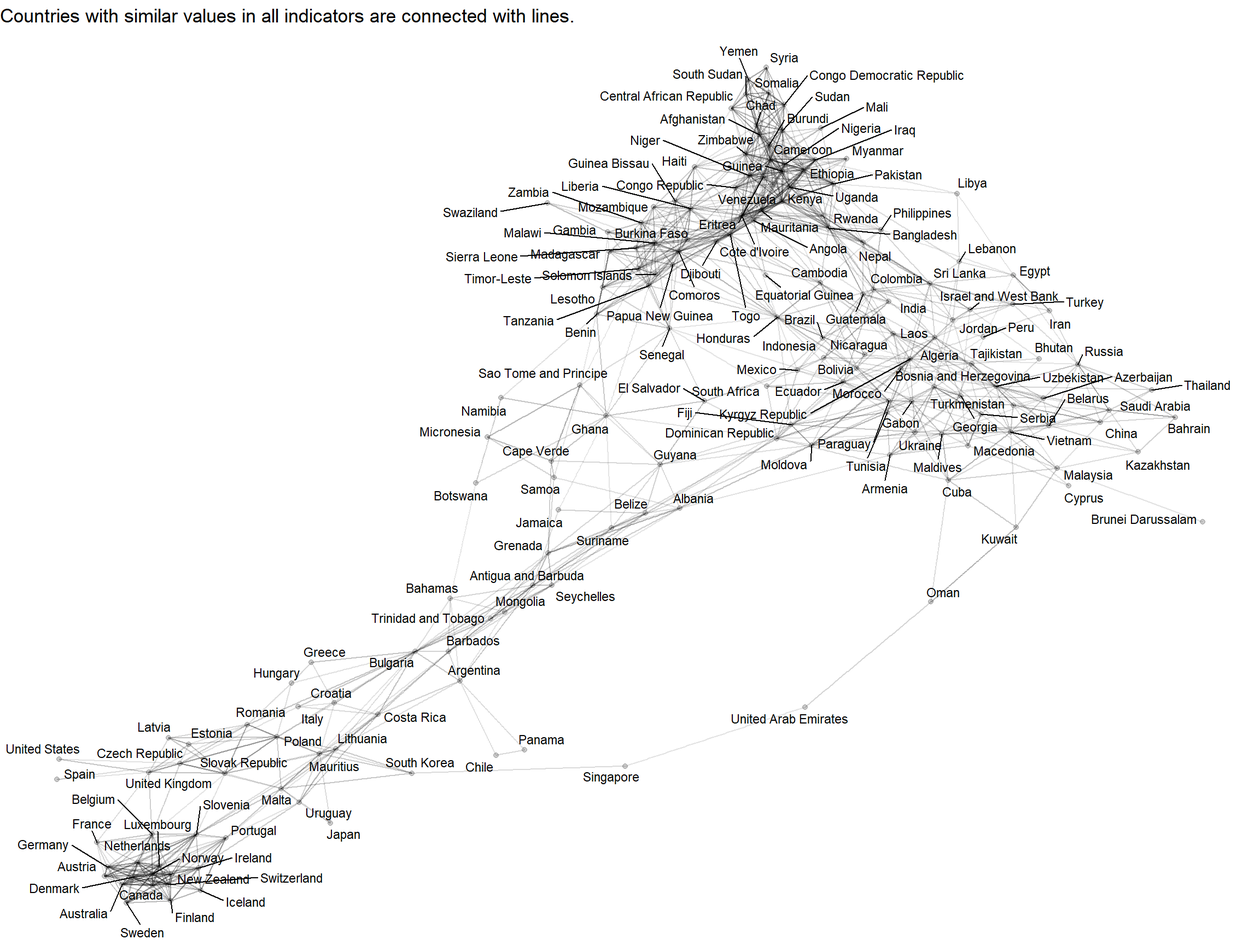
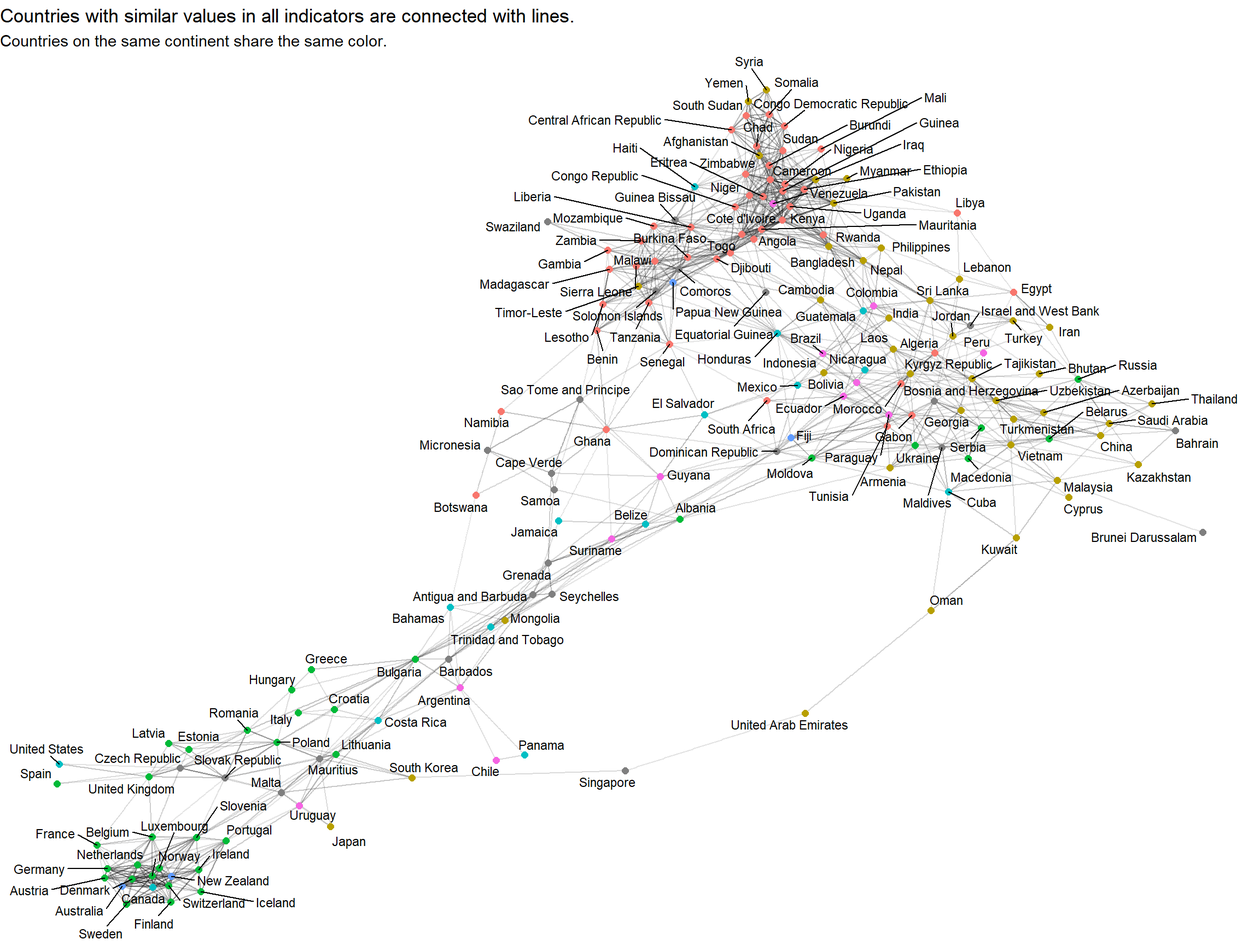
added continent networks to the fragile state index

diff --git a/_posts/2021-03-03-the-fragile-state-index/the-fragile-state-index.html b/_posts/2021-03-03-the-fragile-state-index/the-fragile-state-index.html
@@ -88,7 +88,7 @@ code span.wa { color: #545454; font-weight: bold; font-style: italic; } /* Warni
   <!--radix_placeholder_meta_tags-->
   <title>The Fragile State Index</title>
   
-  <meta property="description" itemprop="description" content="The Fragile State Index is a project dedicated to measure risk and vulnerability in countries worldwide, assigning values to 12 indicators like economic inequality, demographic pressures and brain drain (the tendendy of intellectuals and politicians to leave the country). The project is powered by The Fund For Peace and the data is publicly available."/>
+  <meta property="description" itemprop="description" content="One of the most interesting datasets I looked at recently is The Fragile State Index. It is a project dedicated to measure risk and vulnerability in countries worldwide, assigning values to 12 indicators like economic inequality, demographic pressures and brain drain (the tendendy of intellectuals and politicians to leave the country). The project is powered by The Fund For Peace and the data is publicly available."/>
   
   
   <!--  https://schema.org/Article -->
@@ -99,24 +99,24 @@ code span.wa { color: #545454; font-weight: bold; font-style: italic; } /* Warni
   <!--  https://developers.facebook.com/docs/sharing/webmasters#markup -->
   <meta property="og:title" content="The Fragile State Index"/>
   <meta property="og:type" content="article"/>
-  <meta property="og:description" content="The Fragile State Index is a project dedicated to measure risk and vulnerability in countries worldwide, assigning values to 12 indicators like economic inequality, demographic pressures and brain drain (the tendendy of intellectuals and politicians to leave the country). The project is powered by The Fund For Peace and the data is publicly available."/>
+  <meta property="og:description" content="One of the most interesting datasets I looked at recently is The Fragile State Index. It is a project dedicated to measure risk and vulnerability in countries worldwide, assigning values to 12 indicators like economic inequality, demographic pressures and brain drain (the tendendy of intellectuals and politicians to leave the country). The project is powered by The Fund For Peace and the data is publicly available."/>
   <meta property="og:locale" content="en_US"/>
   
   <!--  https://dev.twitter.com/cards/types/summary -->
   <meta property="twitter:card" content="summary"/>
   <meta property="twitter:title" content="The Fragile State Index"/>
-  <meta property="twitter:description" content="The Fragile State Index is a project dedicated to measure risk and vulnerability in countries worldwide, assigning values to 12 indicators like economic inequality, demographic pressures and brain drain (the tendendy of intellectuals and politicians to leave the country). The project is powered by The Fund For Peace and the data is publicly available."/>
+  <meta property="twitter:description" content="One of the most interesting datasets I looked at recently is The Fragile State Index. It is a project dedicated to measure risk and vulnerability in countries worldwide, assigning values to 12 indicators like economic inequality, demographic pressures and brain drain (the tendendy of intellectuals and politicians to leave the country). The project is powered by The Fund For Peace and the data is publicly available."/>
   
   <!--/radix_placeholder_meta_tags-->
   <!--radix_placeholder_rmarkdown_metadata-->
   
   <script type="text/json" id="radix-rmarkdown-metadata">
-  {"type":"list","attributes":{"names":{"type":"character","attributes":{},"value":["title","description","author","date","output"]}},"value":[{"type":"character","attributes":{},"value":["The Fragile State Index"]},{"type":"character","attributes":{},"value":["The Fragile State Index is a project dedicated to measure risk and vulnerability in countries worldwide, assigning values to 12 indicators like economic inequality, demographic pressures and brain drain (the tendendy of intellectuals and politicians to leave the country). The project is powered by The Fund For Peace and the data is publicly available.\n"]},{"type":"list","attributes":{},"value":[{"type":"list","attributes":{"names":{"type":"character","attributes":{},"value":["name","url"]}},"value":[{"type":"character","attributes":{},"value":["Richard Vogg"]},{"type":"character","attributes":{},"value":["https://github.com/richardvogg"]}]}]},{"type":"character","attributes":{},"value":["03-03-2021"]},{"type":"list","attributes":{"names":{"type":"character","attributes":{},"value":["distill::distill_article"]}},"value":[{"type":"list","attributes":{"names":{"type":"character","attributes":{},"value":["self_contained"]}},"value":[{"type":"logical","attributes":{},"value":[false]}]}]}]}
+  {"type":"list","attributes":{"names":{"type":"character","attributes":{},"value":["title","description","author","date","output"]}},"value":[{"type":"character","attributes":{},"value":["The Fragile State Index"]},{"type":"character","attributes":{},"value":["One of the most interesting datasets I looked at recently is The Fragile State Index. It is a project dedicated to measure risk and vulnerability in countries worldwide, assigning values to 12 indicators like economic inequality, demographic pressures and brain drain (the tendendy of intellectuals and politicians to leave the country). The project is powered by The Fund For Peace and the data is publicly available.\n"]},{"type":"list","attributes":{},"value":[{"type":"list","attributes":{"names":{"type":"character","attributes":{},"value":["name","url"]}},"value":[{"type":"character","attributes":{},"value":["Richard Vogg"]},{"type":"character","attributes":{},"value":["https://github.com/richardvogg"]}]}]},{"type":"character","attributes":{},"value":["03-03-2021"]},{"type":"list","attributes":{"names":{"type":"character","attributes":{},"value":["distill::distill_article"]}},"value":[{"type":"list","attributes":{"names":{"type":"character","attributes":{},"value":["self_contained"]}},"value":[{"type":"logical","attributes":{},"value":[false]}]}]}]}
   </script>
   <!--/radix_placeholder_rmarkdown_metadata-->
   
   <script type="text/json" id="radix-resource-manifest">
-  {"type":"character","attributes":{},"value":["data/fsi-2006.xlsx","data/fsi-2007.xlsx","data/fsi-2008.xlsx","data/fsi-2009.xlsx","data/fsi-2010.xlsx","data/fsi-2011.xlsx","data/fsi-2012.xlsx","data/fsi-2013.xlsx","data/fsi-2014.xlsx","data/fsi-2015.xlsx","data/fsi-2016.xlsx","data/fsi-2017.xlsx","data/fsi-2018.xlsx","data/fsi-2019.xlsx","data/fsi-2020.xlsx","the-fragile-state-index_files/anchor-4.2.2/anchor.min.js","the-fragile-state-index_files/bowser-1.9.3/bowser.min.js","the-fragile-state-index_files/distill-2.2.21/template.v2.js","the-fragile-state-index_files/figure-html5/unnamed-chunk-1-1.png","the-fragile-state-index_files/figure-html5/unnamed-chunk-10-1.png","the-fragile-state-index_files/figure-html5/unnamed-chunk-3-1.png","the-fragile-state-index_files/figure-html5/unnamed-chunk-5-1.png","the-fragile-state-index_files/figure-html5/unnamed-chunk-6-1.png","the-fragile-state-index_files/figure-html5/unnamed-chunk-7-1.png","the-fragile-state-index_files/figure-html5/unnamed-chunk-8-1.png","the-fragile-state-index_files/figure-html5/unnamed-chunk-9-1.png","the-fragile-state-index_files/jquery-1.11.3/jquery.min.js","the-fragile-state-index_files/twitter-widget-0.0.1/widgets.js","the-fragile-state-index_files/webcomponents-2.0.0/webcomponents.js"]}
+  {"type":"character","attributes":{},"value":["data/fsi-2006.xlsx","data/fsi-2007.xlsx","data/fsi-2008.xlsx","data/fsi-2009.xlsx","data/fsi-2010.xlsx","data/fsi-2011.xlsx","data/fsi-2012.xlsx","data/fsi-2013.xlsx","data/fsi-2014.xlsx","data/fsi-2015.xlsx","data/fsi-2016.xlsx","data/fsi-2017.xlsx","data/fsi-2018.xlsx","data/fsi-2019.xlsx","data/fsi-2020.xlsx","the-fragile-state-index_files/anchor-4.2.2/anchor.min.js","the-fragile-state-index_files/bowser-1.9.3/bowser.min.js","the-fragile-state-index_files/distill-2.2.21/template.v2.js","the-fragile-state-index_files/figure-html5/unnamed-chunk-1-1.png","the-fragile-state-index_files/figure-html5/unnamed-chunk-10-1.png","the-fragile-state-index_files/figure-html5/unnamed-chunk-11-1.png","the-fragile-state-index_files/figure-html5/unnamed-chunk-13-1.png","the-fragile-state-index_files/figure-html5/unnamed-chunk-14-1.png","the-fragile-state-index_files/figure-html5/unnamed-chunk-15-1.png","the-fragile-state-index_files/figure-html5/unnamed-chunk-17-1.png","the-fragile-state-index_files/figure-html5/unnamed-chunk-19-1.png","the-fragile-state-index_files/figure-html5/unnamed-chunk-20-1.png","the-fragile-state-index_files/figure-html5/unnamed-chunk-3-1.png","the-fragile-state-index_files/figure-html5/unnamed-chunk-5-1.png","the-fragile-state-index_files/figure-html5/unnamed-chunk-6-1.png","the-fragile-state-index_files/figure-html5/unnamed-chunk-7-1.png","the-fragile-state-index_files/figure-html5/unnamed-chunk-8-1.png","the-fragile-state-index_files/figure-html5/unnamed-chunk-9-1.png","the-fragile-state-index_files/jquery-1.11.3/jquery.min.js","the-fragile-state-index_files/twitter-widget-0.0.1/widgets.js","the-fragile-state-index_files/webcomponents-2.0.0/webcomponents.js"]}
   </script>
   <!--radix_placeholder_navigation_in_header-->
   <!--/radix_placeholder_navigation_in_header-->
@@ -1420,7 +1420,7 @@ code span.wa { color: #545454; font-weight: bold; font-style: italic; } /* Warni
 <!--radix_placeholder_front_matter-->
 
 <script id="distill-front-matter" type="text/json">
-{"title":"The Fragile State Index","description":"The Fragile State Index is a project dedicated to measure risk and vulnerability in countries worldwide, assigning values to 12 indicators like economic inequality, demographic pressures and brain drain (the tendendy of intellectuals and politicians to leave the country). The project is powered by The Fund For Peace and the data is publicly available.","authors":[{"author":"Richard Vogg","authorURL":"https://github.com/richardvogg","affiliation":"&nbsp;","affiliationURL":"#","orcidID":""}],"publishedDate":"2021-03-03T00:00:00.000+01:00","citationText":"Vogg, 2021"}
+{"title":"The Fragile State Index","description":"One of the most interesting datasets I looked at recently is The Fragile State Index. It is a project dedicated to measure risk and vulnerability in countries worldwide, assigning values to 12 indicators like economic inequality, demographic pressures and brain drain (the tendendy of intellectuals and politicians to leave the country). The project is powered by The Fund For Peace and the data is publicly available.","authors":[{"author":"Richard Vogg","authorURL":"https://github.com/richardvogg","affiliation":"&nbsp;","affiliationURL":"#","orcidID":""}],"publishedDate":"2021-03-03T00:00:00.000+01:00","citationText":"Vogg, 2021"}
 </script>
 
 <!--/radix_placeholder_front_matter-->
@@ -1433,7 +1433,7 @@ code span.wa { color: #545454; font-weight: bold; font-style: italic; } /* Warni
 <h1>The Fragile State Index</h1>
 <!--radix_placeholder_categories-->
 <!--/radix_placeholder_categories-->
-<p><p>The Fragile State Index is a project dedicated to measure risk and vulnerability in countries worldwide, assigning values to 12 indicators like economic inequality, demographic pressures and brain drain (the tendendy of intellectuals and politicians to leave the country). The project is powered by The Fund For Peace and the data is publicly available.</p></p>
+<p><p>One of the most interesting datasets I looked at recently is The Fragile State Index. It is a project dedicated to measure risk and vulnerability in countries worldwide, assigning values to 12 indicators like economic inequality, demographic pressures and brain drain (the tendendy of intellectuals and politicians to leave the country). The project is powered by The Fund For Peace and the data is publicly available.</p></p>
 </div>
 
 <div class="d-byline">
@@ -1516,9 +1516,40 @@ code span.wa { color: #545454; font-weight: bold; font-style: italic; } /* Warni
 <div class="layout-chunk" data-layout="l-body">
 <p><img src="the-fragile-state-index_files/figure-html5/unnamed-chunk-9-1.png" width="1152" /></p>
 </div>
+<p>To get a better view, we can look at some continents separately.</p>
+<div class="layout-chunk" data-layout="l-body">
+
+</div>
+<div class="layout-chunk" data-layout="l-body">
+<p><img src="the-fragile-state-index_files/figure-html5/unnamed-chunk-11-1.png" width="624" /></p>
+</div>
+<div class="layout-chunk" data-layout="l-body">
+
+</div>
+<div class="layout-chunk" data-layout="l-body">
+<p><img src="the-fragile-state-index_files/figure-html5/unnamed-chunk-13-1.png" width="624" /></p>
+</div>
+<div class="layout-chunk" data-layout="l-body">
+
+</div>
+<div class="layout-chunk" data-layout="l-body">
+<p><img src="the-fragile-state-index_files/figure-html5/unnamed-chunk-15-1.png" width="624" /></p>
+</div>
+<div class="layout-chunk" data-layout="l-body">
+
+</div>
+<div class="layout-chunk" data-layout="l-body">
+<p><img src="the-fragile-state-index_files/figure-html5/unnamed-chunk-17-1.png" width="624" /></p>
+</div>
+<div class="layout-chunk" data-layout="l-body">
+
+</div>
+<div class="layout-chunk" data-layout="l-body">
+<p><img src="the-fragile-state-index_files/figure-html5/unnamed-chunk-19-1.png" width="624" /></p>
+</div>
 <p>Similar to the first country comparison plot, we can see how the indicators evolve over time for different countries. Long-term trends and jumps in the indicators are worth a google search. In the interactive version you can also check other countries of your interest.</p>
 <div class="layout-chunk" data-layout="l-body">
-<p><img src="the-fragile-state-index_files/figure-html5/unnamed-chunk-10-1.png" width="864" /></p>
+<p><img src="the-fragile-state-index_files/figure-html5/unnamed-chunk-20-1.png" width="864" /></p>
 </div>
 <h2 id="final-notes">Final notes</h2>
 <ul>

diff --git a/_site/posts/2021-03-03-the-fragile-state-index/index.html b/_site/posts/2021-03-03-the-fragile-state-index/index.html
@@ -88,7 +88,7 @@ code span.wa { color: #545454; font-weight: bold; font-style: italic; } /* Warni
   <!--radix_placeholder_meta_tags-->
 <title>R-Vogg-Blog: The Fragile State Index</title>
 
-<meta property="description" itemprop="description" content="The Fragile State Index is a project dedicated to measure risk and vulnerability in countries worldwide, assigning values to 12 indicators like economic inequality, demographic pressures and brain drain (the tendendy of intellectuals and politicians to leave the country). The project is powered by The Fund For Peace and the data is publicly available."/>
+<meta property="description" itemprop="description" content="One of the most interesting datasets I looked at recently is The Fragile State Index. It is a project dedicated to measure risk and vulnerability in countries worldwide, assigning values to 12 indicators like economic inequality, demographic pressures and brain drain (the tendendy of intellectuals and politicians to leave the country). The project is powered by The Fund For Peace and the data is publicly available."/>
 
 
 <!--  https://schema.org/Article -->
@@ -99,25 +99,25 @@ code span.wa { color: #545454; font-weight: bold; font-style: italic; } /* Warni
 <!--  https://developers.facebook.com/docs/sharing/webmasters#markup -->
 <meta property="og:title" content="R-Vogg-Blog: The Fragile State Index"/>
 <meta property="og:type" content="article"/>
-<meta property="og:description" content="The Fragile State Index is a project dedicated to measure risk and vulnerability in countries worldwide, assigning values to 12 indicators like economic inequality, demographic pressures and brain drain (the tendendy of intellectuals and politicians to leave the country). The project is powered by The Fund For Peace and the data is publicly available."/>
+<meta property="og:description" content="One of the most interesting datasets I looked at recently is The Fragile State Index. It is a project dedicated to measure risk and vulnerability in countries worldwide, assigning values to 12 indicators like economic inequality, demographic pressures and brain drain (the tendendy of intellectuals and politicians to leave the country). The project is powered by The Fund For Peace and the data is publicly available."/>
 <meta property="og:locale" content="en_US"/>
 <meta property="og:site_name" content="R-Vogg-Blog"/>
 
 <!--  https://dev.twitter.com/cards/types/summary -->
 <meta property="twitter:card" content="summary"/>
 <meta property="twitter:title" content="R-Vogg-Blog: The Fragile State Index"/>
-<meta property="twitter:description" content="The Fragile State Index is a project dedicated to measure risk and vulnerability in countries worldwide, assigning values to 12 indicators like economic inequality, demographic pressures and brain drain (the tendendy of intellectuals and politicians to leave the country). The project is powered by The Fund For Peace and the data is publicly available."/>
+<meta property="twitter:description" content="One of the most interesting datasets I looked at recently is The Fragile State Index. It is a project dedicated to measure risk and vulnerability in countries worldwide, assigning values to 12 indicators like economic inequality, demographic pressures and brain drain (the tendendy of intellectuals and politicians to leave the country). The project is powered by The Fund For Peace and the data is publicly available."/>
 
 <!--/radix_placeholder_meta_tags-->
   <!--radix_placeholder_rmarkdown_metadata-->
 
 <script type="text/json" id="radix-rmarkdown-metadata">
-{"type":"list","attributes":{"names":{"type":"character","attributes":{},"value":["title","description","author","date","output"]}},"value":[{"type":"character","attributes":{},"value":["The Fragile State Index"]},{"type":"character","attributes":{},"value":["The Fragile State Index is a project dedicated to measure risk and vulnerability in countries worldwide, assigning values to 12 indicators like economic inequality, demographic pressures and brain drain (the tendendy of intellectuals and politicians to leave the country). The project is powered by The Fund For Peace and the data is publicly available."]},{"type":"list","attributes":{},"value":[{"type":"list","attributes":{"names":{"type":"character","attributes":{},"value":["name","url"]}},"value":[{"type":"character","attributes":{},"value":["Richard Vogg"]},{"type":"character","attributes":{},"value":["https://github.com/richardvogg"]}]}]},{"type":"character","attributes":{},"value":["03-03-2021"]},{"type":"list","attributes":{"names":{"type":"character","attributes":{},"value":["distill::distill_article"]}},"value":[{"type":"list","attributes":{"names":{"type":"character","attributes":{},"value":["self_contained"]}},"value":[{"type":"logical","attributes":{},"value":[false]}]}]}]}
+{"type":"list","attributes":{"names":{"type":"character","attributes":{},"value":["title","description","author","date","output"]}},"value":[{"type":"character","attributes":{},"value":["The Fragile State Index"]},{"type":"character","attributes":{},"value":["One of the most interesting datasets I looked at recently is The Fragile State Index. It is a project dedicated to measure risk and vulnerability in countries worldwide, assigning values to 12 indicators like economic inequality, demographic pressures and brain drain (the tendendy of intellectuals and politicians to leave the country). The project is powered by The Fund For Peace and the data is publicly available."]},{"type":"list","attributes":{},"value":[{"type":"list","attributes":{"names":{"type":"character","attributes":{},"value":["name","url"]}},"value":[{"type":"character","attributes":{},"value":["Richard Vogg"]},{"type":"character","attributes":{},"value":["https://github.com/richardvogg"]}]}]},{"type":"character","attributes":{},"value":["03-03-2021"]},{"type":"list","attributes":{"names":{"type":"character","attributes":{},"value":["distill::distill_article"]}},"value":[{"type":"list","attributes":{"names":{"type":"character","attributes":{},"value":["self_contained"]}},"value":[{"type":"logical","attributes":{},"value":[false]}]}]}]}
 </script>
 <!--/radix_placeholder_rmarkdown_metadata-->
   
   <script type="text/json" id="radix-resource-manifest">
-  {"type":"character","attributes":{},"value":["data/fsi-2006.xlsx","data/fsi-2007.xlsx","data/fsi-2008.xlsx","data/fsi-2009.xlsx","data/fsi-2010.xlsx","data/fsi-2011.xlsx","data/fsi-2012.xlsx","data/fsi-2013.xlsx","data/fsi-2014.xlsx","data/fsi-2015.xlsx","data/fsi-2016.xlsx","data/fsi-2017.xlsx","data/fsi-2018.xlsx","data/fsi-2019.xlsx","data/fsi-2020.xlsx","the-fragile-state-index_files/anchor-4.2.2/anchor.min.js","the-fragile-state-index_files/bowser-1.9.3/bowser.min.js","the-fragile-state-index_files/distill-2.2.21/template.v2.js","the-fragile-state-index_files/figure-html5/unnamed-chunk-1-1.png","the-fragile-state-index_files/figure-html5/unnamed-chunk-10-1.png","the-fragile-state-index_files/figure-html5/unnamed-chunk-3-1.png","the-fragile-state-index_files/figure-html5/unnamed-chunk-5-1.png","the-fragile-state-index_files/figure-html5/unnamed-chunk-6-1.png","the-fragile-state-index_files/figure-html5/unnamed-chunk-7-1.png","the-fragile-state-index_files/figure-html5/unnamed-chunk-8-1.png","the-fragile-state-index_files/figure-html5/unnamed-chunk-9-1.png","the-fragile-state-index_files/jquery-1.11.3/jquery.min.js","the-fragile-state-index_files/twitter-widget-0.0.1/widgets.js","the-fragile-state-index_files/webcomponents-2.0.0/webcomponents.js"]}
+  {"type":"character","attributes":{},"value":["data/fsi-2006.xlsx","data/fsi-2007.xlsx","data/fsi-2008.xlsx","data/fsi-2009.xlsx","data/fsi-2010.xlsx","data/fsi-2011.xlsx","data/fsi-2012.xlsx","data/fsi-2013.xlsx","data/fsi-2014.xlsx","data/fsi-2015.xlsx","data/fsi-2016.xlsx","data/fsi-2017.xlsx","data/fsi-2018.xlsx","data/fsi-2019.xlsx","data/fsi-2020.xlsx","the-fragile-state-index_files/anchor-4.2.2/anchor.min.js","the-fragile-state-index_files/bowser-1.9.3/bowser.min.js","the-fragile-state-index_files/distill-2.2.21/template.v2.js","the-fragile-state-index_files/figure-html5/unnamed-chunk-1-1.png","the-fragile-state-index_files/figure-html5/unnamed-chunk-10-1.png","the-fragile-state-index_files/figure-html5/unnamed-chunk-11-1.png","the-fragile-state-index_files/figure-html5/unnamed-chunk-13-1.png","the-fragile-state-index_files/figure-html5/unnamed-chunk-14-1.png","the-fragile-state-index_files/figure-html5/unnamed-chunk-15-1.png","the-fragile-state-index_files/figure-html5/unnamed-chunk-17-1.png","the-fragile-state-index_files/figure-html5/unnamed-chunk-19-1.png","the-fragile-state-index_files/figure-html5/unnamed-chunk-20-1.png","the-fragile-state-index_files/figure-html5/unnamed-chunk-3-1.png","the-fragile-state-index_files/figure-html5/unnamed-chunk-5-1.png","the-fragile-state-index_files/figure-html5/unnamed-chunk-6-1.png","the-fragile-state-index_files/figure-html5/unnamed-chunk-7-1.png","the-fragile-state-index_files/figure-html5/unnamed-chunk-8-1.png","the-fragile-state-index_files/figure-html5/unnamed-chunk-9-1.png","the-fragile-state-index_files/jquery-1.11.3/jquery.min.js","the-fragile-state-index_files/twitter-widget-0.0.1/widgets.js","the-fragile-state-index_files/webcomponents-2.0.0/webcomponents.js"]}
   </script>
   <!--radix_placeholder_navigation_in_header-->
 <meta name="distill:offset" content="../.."/>
@@ -2327,7 +2327,7 @@ d-appendix d-footnote-list a.footnote-backlink {
 <!--radix_placeholder_front_matter-->
 
 <script id="distill-front-matter" type="text/json">
-{"title":"The Fragile State Index","description":"The Fragile State Index is a project dedicated to measure risk and vulnerability in countries worldwide, assigning values to 12 indicators like economic inequality, demographic pressures and brain drain (the tendendy of intellectuals and politicians to leave the country). The project is powered by The Fund For Peace and the data is publicly available.","authors":[{"author":"Richard Vogg","authorURL":"https://github.com/richardvogg","affiliation":"&nbsp;","affiliationURL":"#","orcidID":""}],"publishedDate":"2021-03-03T00:00:00.000+01:00","citationText":"Vogg, 2021"}
+{"title":"The Fragile State Index","description":"One of the most interesting datasets I looked at recently is The Fragile State Index. It is a project dedicated to measure risk and vulnerability in countries worldwide, assigning values to 12 indicators like economic inequality, demographic pressures and brain drain (the tendendy of intellectuals and politicians to leave the country). The project is powered by The Fund For Peace and the data is publicly available.","authors":[{"author":"Richard Vogg","authorURL":"https://github.com/richardvogg","affiliation":"&nbsp;","affiliationURL":"#","orcidID":""}],"publishedDate":"2021-03-03T00:00:00.000+01:00","citationText":"Vogg, 2021"}
 </script>
 
 <!--/radix_placeholder_front_matter-->
@@ -2355,7 +2355,7 @@ d-appendix d-footnote-list a.footnote-backlink {
 <h1>The Fragile State Index</h1>
 <!--radix_placeholder_categories-->
 <!--/radix_placeholder_categories-->
-<p><p>The Fragile State Index is a project dedicated to measure risk and vulnerability in countries worldwide, assigning values to 12 indicators like economic inequality, demographic pressures and brain drain (the tendendy of intellectuals and politicians to leave the country). The project is powered by The Fund For Peace and the data is publicly available.</p></p>
+<p><p>One of the most interesting datasets I looked at recently is The Fragile State Index. It is a project dedicated to measure risk and vulnerability in countries worldwide, assigning values to 12 indicators like economic inequality, demographic pressures and brain drain (the tendendy of intellectuals and politicians to leave the country). The project is powered by The Fund For Peace and the data is publicly available.</p></p>
 </div>
 
 <div class="d-byline">
@@ -2438,9 +2438,40 @@ d-appendix d-footnote-list a.footnote-backlink {
 <div class="layout-chunk" data-layout="l-body">
 <p><img src="the-fragile-state-index_files/figure-html5/unnamed-chunk-9-1.png" width="1152" /></p>
 </div>
+<p>To get a better view, we can look at some continents separately.</p>
+<div class="layout-chunk" data-layout="l-body">
+
+</div>
+<div class="layout-chunk" data-layout="l-body">
+<p><img src="the-fragile-state-index_files/figure-html5/unnamed-chunk-11-1.png" width="624" /></p>
+</div>
+<div class="layout-chunk" data-layout="l-body">
+
+</div>
+<div class="layout-chunk" data-layout="l-body">
+<p><img src="the-fragile-state-index_files/figure-html5/unnamed-chunk-13-1.png" width="624" /></p>
+</div>
+<div class="layout-chunk" data-layout="l-body">
+
+</div>
+<div class="layout-chunk" data-layout="l-body">
+<p><img src="the-fragile-state-index_files/figure-html5/unnamed-chunk-15-1.png" width="624" /></p>
+</div>
+<div class="layout-chunk" data-layout="l-body">
+
+</div>
+<div class="layout-chunk" data-layout="l-body">
+<p><img src="the-fragile-state-index_files/figure-html5/unnamed-chunk-17-1.png" width="624" /></p>
+</div>
+<div class="layout-chunk" data-layout="l-body">
+
+</div>
+<div class="layout-chunk" data-layout="l-body">
+<p><img src="the-fragile-state-index_files/figure-html5/unnamed-chunk-19-1.png" width="624" /></p>
+</div>
 <p>Similar to the first country comparison plot, we can see how the indicators evolve over time for different countries. Long-term trends and jumps in the indicators are worth a google search. In the interactive version you can also check other countries of your interest.</p>
 <div class="layout-chunk" data-layout="l-body">
-<p><img src="the-fragile-state-index_files/figure-html5/unnamed-chunk-10-1.png" width="864" /></p>
+<p><img src="the-fragile-state-index_files/figure-html5/unnamed-chunk-20-1.png" width="864" /></p>
 </div>
 <h2 id="final-notes">Final notes</h2>
 <ul>

diff --git a/_site/spatial.html b/_site/spatial.html
@@ -2488,7 +2488,7 @@ function init_posts_list() {
 <div class="description">
 <h2>The Fragile State Index</h2>
 <div class="dt-tags"></div>
-<p>The Fragile State Index is a project dedicated to measure risk and vulnerability in countries worldwide, assigning values to 12 indicators like economic inequality, demographic pressures and brain drain (the tendendy of intellectuals and politicians to leave the country). The project is powered by The Fund For Peace and the data is publicly available.</p>
+<p>One of the most interesting datasets I looked at recently is The Fragile State Index. It is a project dedicated to measure risk and vulnerability in countries worldwide, assigning values to 12 indicators like economic inequality, demographic pressures and brain drain (the tendendy of intellectuals and politicians to leave the country). The project is powered by The Fund For Peace and the data is publicly available.</p>
 </div>
 </a>
 <a href="posts/2021-02-12-select-points-on-maps/" class="post-preview">
